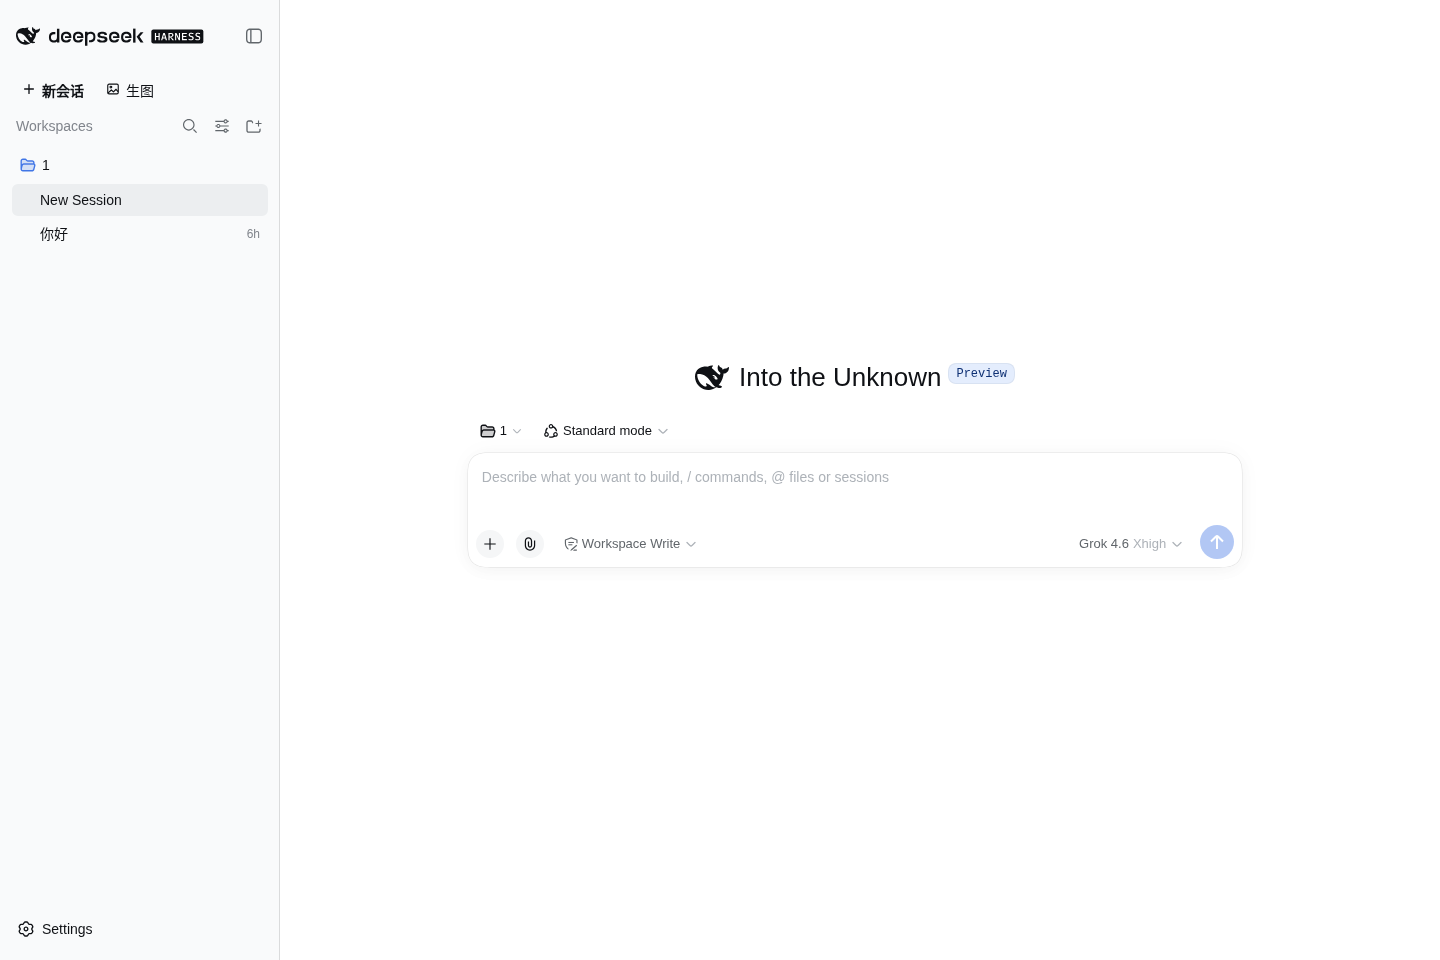
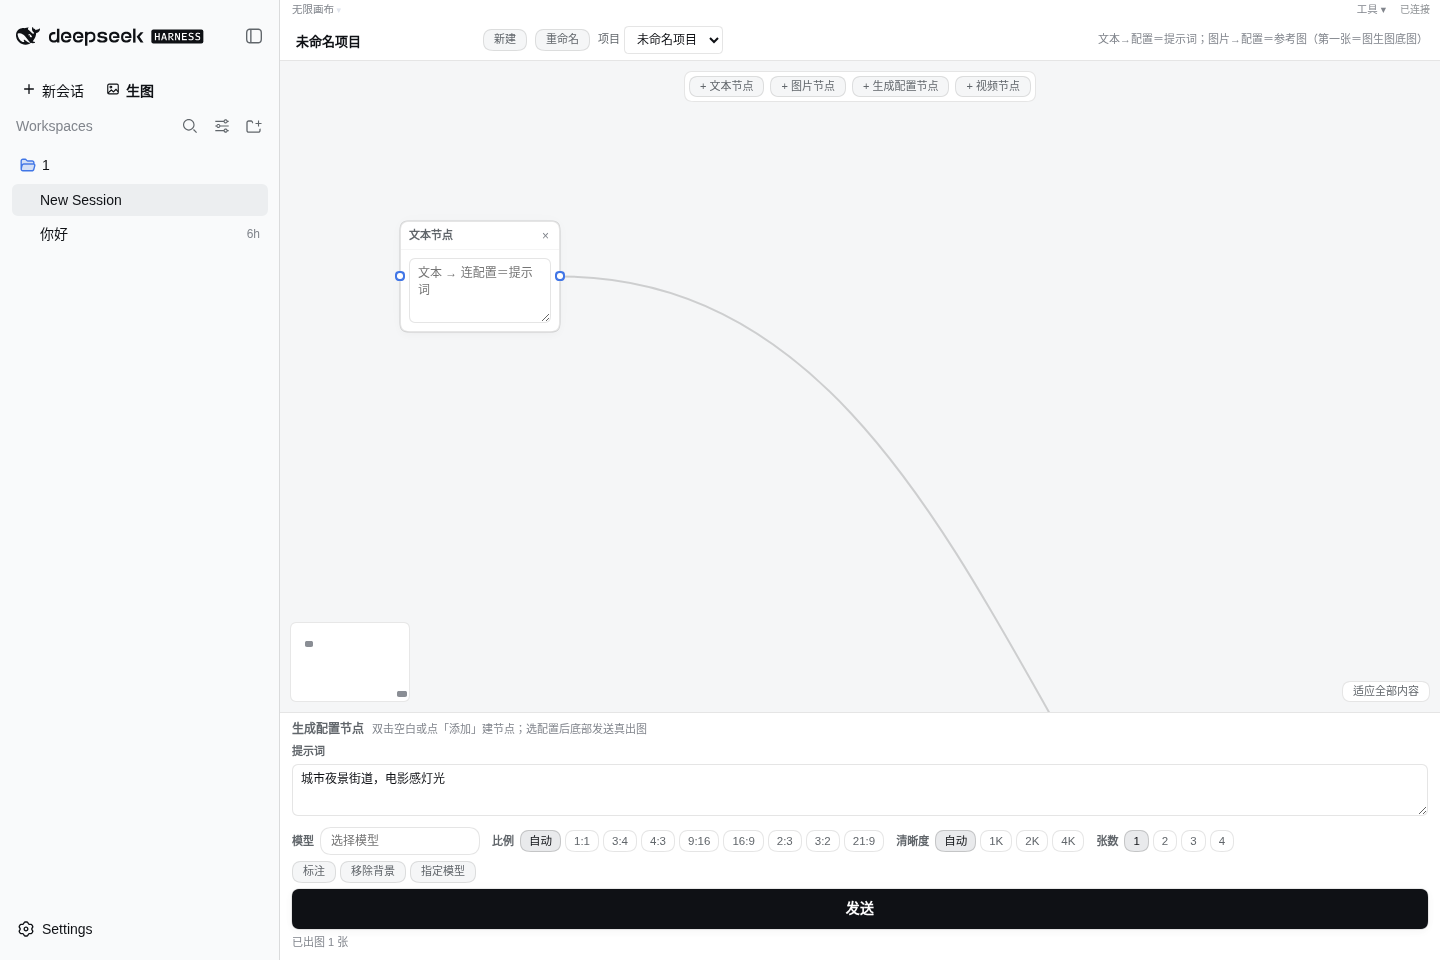
feat: vision/gif config wiring + gallery-host deepen

diff --git a/src/protocol/load-media-env.js b/src/protocol/load-media-env.js
@@ -49,17 +49,35 @@ function parseEnvFile(file) {
  * @returns {VideoEnv}
  */
 export function resolveVideoEnvFromMap(map = {}) {
-  const interval = Number(map.VIDEO_POLL_INTERVAL_MS)
-  const timeout = Number(map.VIDEO_POLL_TIMEOUT_MS)
+  const interval = Number(map.VIDEO_POLL_INTERVAL_MS || map.GPTIMG_VIDEO_POLL_INTERVAL_MS)
+  const timeout = Number(map.VIDEO_POLL_TIMEOUT_MS || map.GPTIMG_VIDEO_POLL_TIMEOUT_MS)
   return {
-    baseUrl: String(map.VIDEO_BASE_URL || '').trim(),
-    token: String(map.VIDEO_API_KEY || ''),
-    defaultModel: String(map.VIDEO_DEFAULT_MODEL || '').trim(),
-    submitPath: String(map.VIDEO_SUBMIT_PATH || '').trim(),
-    pollPath: String(map.VIDEO_POLL_PATH || '').trim(),
+    baseUrl: String(map.VIDEO_BASE_URL || map.GPTIMG_VIDEO_BASE_URL || '').trim(),
+    token: String(map.VIDEO_API_KEY || map.GPTIMG_VIDEO_API_KEY || ''),
+    defaultModel: String(map.VIDEO_DEFAULT_MODEL || map.GPTIMG_VIDEO_DEFAULT_MODEL || '').trim(),
+    submitPath: String(map.VIDEO_SUBMIT_PATH || map.GPTIMG_VIDEO_SUBMIT_PATH || '').trim(),
+    pollPath: String(map.VIDEO_POLL_PATH || map.GPTIMG_VIDEO_POLL_PATH || '').trim(),
     pollIntervalMs: Number.isFinite(interval) && interval > 0 ? interval : 2000,
     pollTimeoutMs: Number.isFinite(timeout) && timeout > 0 ? timeout : 600_000,
-    provider: String(map.VIDEO_PROVIDER || '').trim() || 'video.async',
+    provider: String(map.VIDEO_PROVIDER || map.GPTIMG_VIDEO_PROVIDER || '').trim() || 'video.async',
+  }
+}
+
+/** Optional GIF_* lane (Nova uses images media by default). Alias GIF_API_URL. */
+export function resolveGifEnvFromMap(map = {}) {
+  return {
+    baseUrl: String(map.GIF_BASE_URL || map.GIF_API_URL || '').trim(),
+    token: String(map.GIF_API_KEY || ''),
+    defaultModel: String(map.GIF_DEFAULT_MODEL || '').trim(),
+  }
+}
+
+/** Optional ECOM_* keys (documented; seat stub). Alias ECOM_API_URL. */
+export function resolveEcomEnvFromMap(map = {}) {
+  return {
+    baseUrl: String(map.ECOM_BASE_URL || map.ECOM_API_URL || '').trim(),
+    token: String(map.ECOM_API_KEY || ''),
+    defaultModel: String(map.ECOM_DEFAULT_MODEL || '').trim(),
   }
 }
 
@@ -148,6 +166,8 @@ export function loadMediaEnv() {
   }
 
   const video = resolveVideoEnvFromMap(map)
+  const gif = resolveGifEnvFromMap(map)
+  const ecom = resolveEcomEnvFromMap(map)
 
   // Prefer explicit MEDIA_ACTIVE_CHANNEL; else primary; else first
   const want = map.MEDIA_ACTIVE_CHANNEL || 'primary'
@@ -164,6 +184,8 @@ export function loadMediaEnv() {
       defaultModel: map.MEDIA_IMAGE_MODEL || 'gpt-image-2',
       source,
       video,
+      gif,
+      ecom,
     }
   }
 
@@ -176,6 +198,8 @@ export function loadMediaEnv() {
     defaultModel: active.defaultModel,
     source,
     video,
+    gif,
+    ecom,
   }
 }
 
@@ -203,6 +227,16 @@ export function mediaEnvSummary(env = loadMediaEnv()) {
       tokenSet: Boolean(video.token),
       defaultModel: video.defaultModel || '',
       provider: video.provider || 'video.async',
+    },
+    gif: {
+      baseUrlSet: Boolean(env.gif?.baseUrl),
+      tokenSet: Boolean(env.gif?.token),
+      defaultModel: env.gif?.defaultModel || '',
+    },
+    ecom: {
+      baseUrlSet: Boolean(env.ecom?.baseUrl),
+      tokenSet: Boolean(env.ecom?.token),
+      defaultModel: env.ecom?.defaultModel || '',
     },
     source: env.source === 'process.env' ? 'process.env' : 'file',
   }

diff --git a/src/config.js b/src/config.js
@@ -17,10 +17,13 @@ export { SETTINGS_NAMESPACE } from './shared/ns.js'
  *   videoDefaultModel: string,
  *   videoPollIntervalMs: number,
  *   videoPollTimeoutMs: number,
+ *   visionBaseUrl: string,
+ *   visionApiKey: string,
+ *   visionModel: string,
  * }} WorkstationConfig
  */
 
-/** Cordis Config schema — secret role redacts mediaApiKey / videoApiKey on the wire. */
+/** Cordis Config schema — secret role redacts *ApiKey fields on the wire. */
 export const Config = Schema.object({
   skillDir: Schema.string()
     .default('')
@@ -67,6 +70,16 @@ export const Config = Schema.object({
   videoPollTimeoutMs: Schema.number()
     .default(600000)
     .description('视频任务轮询超时（ms）；设置卡不展示。'),
+  visionBaseUrl: Schema.string()
+    .default('')
+    .description('Vision 反推/增强 API Base URL（OpenAI 兼容 chat/completions；与生图密钥分车道）。'),
+  visionApiKey: Schema.string()
+    .role('secret')
+    .default('')
+    .description('Vision 车道密钥（仅宿主；设置页只显示 Configured / Not configured）。也可写 media.env VISION_*。'),
+  visionModel: Schema.string()
+    .default('')
+    .description('Vision 模型 id（空 → gpt-4o-mini 或 media.env VISION_MODEL）。'),
 })
 
 /**
@@ -100,5 +113,8 @@ export function resolveConfig(config = {}) {
     videoDefaultModel: String(config.videoDefaultModel || '').trim(),
     videoPollIntervalMs: Number.isFinite(pollInterval) && pollInterval > 0 ? pollInterval : 2000,
     videoPollTimeoutMs: Number.isFinite(pollTimeout) && pollTimeout > 0 ? pollTimeout : 600000,
+    visionBaseUrl: String(config.visionBaseUrl || '').trim(),
+    visionApiKey: String(config.visionApiKey || ''),
+    visionModel: String(config.visionModel || '').trim(),
   }
 }

diff --git a/src/protocol/index.js b/src/protocol/index.js
@@ -1,7 +1,7 @@
 export { PROTOCOL_KINDS, CREDENTIAL_LANES, IMAGE_MODALITIES, VIDEO_MODALITIES } from './types.js'
 export { createAdapterStub, listPhase1Adapters } from './adapters.js'
 export { createHostProxy, attachHostProxy } from './host-proxy.js'
-export { loadMediaEnv, mediaEnvSummary, loadVideoEnv, resolveVideoEnvFromMap } from './load-media-env.js'
+export { loadMediaEnv, mediaEnvSummary, loadVideoEnv, resolveVideoEnvFromMap, resolveGifEnvFromMap, resolveEcomEnvFromMap } from './load-media-env.js'
 export { resolveMediaBag, resolveVideoEnv, resolveVideoBag, resolveVisionCfg } from './resolve-media.js'
 export {
   MEDIA_SEATS,
@@ -41,7 +41,11 @@ export {
   gifGenerate,
   ecommerceGenerate,
   GIF_STUB_NOT_WIRED,
+  GIF_NOT_CONFIGURED,
   ECOM_STUB_NOT_WIRED,
+  ECOM_NOT_CONFIGURED,
   CTA_RPC_GIF_GENERATE,
   CTA_RPC_ECOM_GENERATE,
 } from './gif-ecom.js'
+export { canvasGenerate, CTA_RPC_CANVAS_GENERATE } from './canvas-generate.js'
+export { buildGifPrompt, GIF_GRID } from './gif-prompt.js'

diff --git a/src/protocol/resolve-media.js b/src/protocol/resolve-media.js
@@ -45,8 +45,18 @@ export function resolveMediaBag(cfg = {}) {
     provider: settingsVideoProvider || envVideo.provider || 'video.async',
   }
 
+  const gif = {
+    baseUrl: String(env.gif?.baseUrl || '').trim(),
+    token: String(env.gif?.token || ''),
+    defaultModel: String(env.gif?.defaultModel || '').trim(),
+  }
+  const ecom = {
+    baseUrl: String(env.ecom?.baseUrl || '').trim(),
+    token: String(env.ecom?.token || ''),
+    defaultModel: String(env.ecom?.defaultModel || '').trim(),
+  }
   const vision = resolveVisionCfg(cfg)
-  const withLanes = (base) => ({ ...base, video, vision })
+  const withLanes = (base) => ({ ...base, video, vision, gif, ecom })
 
   if (settingsUrl || settingsKey) {
     const provider =

diff --git a/src/agent/model-policy.js b/src/agent/model-policy.js
@@ -37,7 +37,7 @@ export function ensureAgentImageConfigured(config, mediaProxy) {
   }
   if (!mediaProxy?.mediaConfigured) {
     const err = new Error(
-      '生图渠道未配置。请到 Settings → Plugins → dsh-image-workstation 配置渠道，或在宿主 media.env 填写地址与密钥后重试。',
+      'Image channel not configured. Open Settings → Plugins → dsh-image-workstation to set media base URL/key, or fill host media.env. / 生图渠道未配置。请到 Settings → Plugins → dsh-image-workstation 配置渠道，或在宿主 media.env 填写地址与密钥后重试。',
     )
     err.code = 'IMAGE_API_NOT_CONFIGURED'
     throw err

diff --git a/src/index.js b/src/index.js
@@ -79,6 +79,7 @@ export function apply(ctx, config) {
     enhancePrompt: (req) => runtime.proxy.enhancePrompt(req),
     gifGenerate: (req) => runtime.proxy.gifGenerate(req),
     ecommerceGenerate: (req) => runtime.proxy.ecommerceGenerate(req),
+    canvasGenerate: (req) => runtime.proxy.canvasGenerate(req),
     videoGenerate: (req) => runtime.proxy.videoGenerate(req),
     videoStatus: (id) => runtime.proxy.videoStatus(id),
     videoCancel: (id) => runtime.proxy.videoCancel(id),
